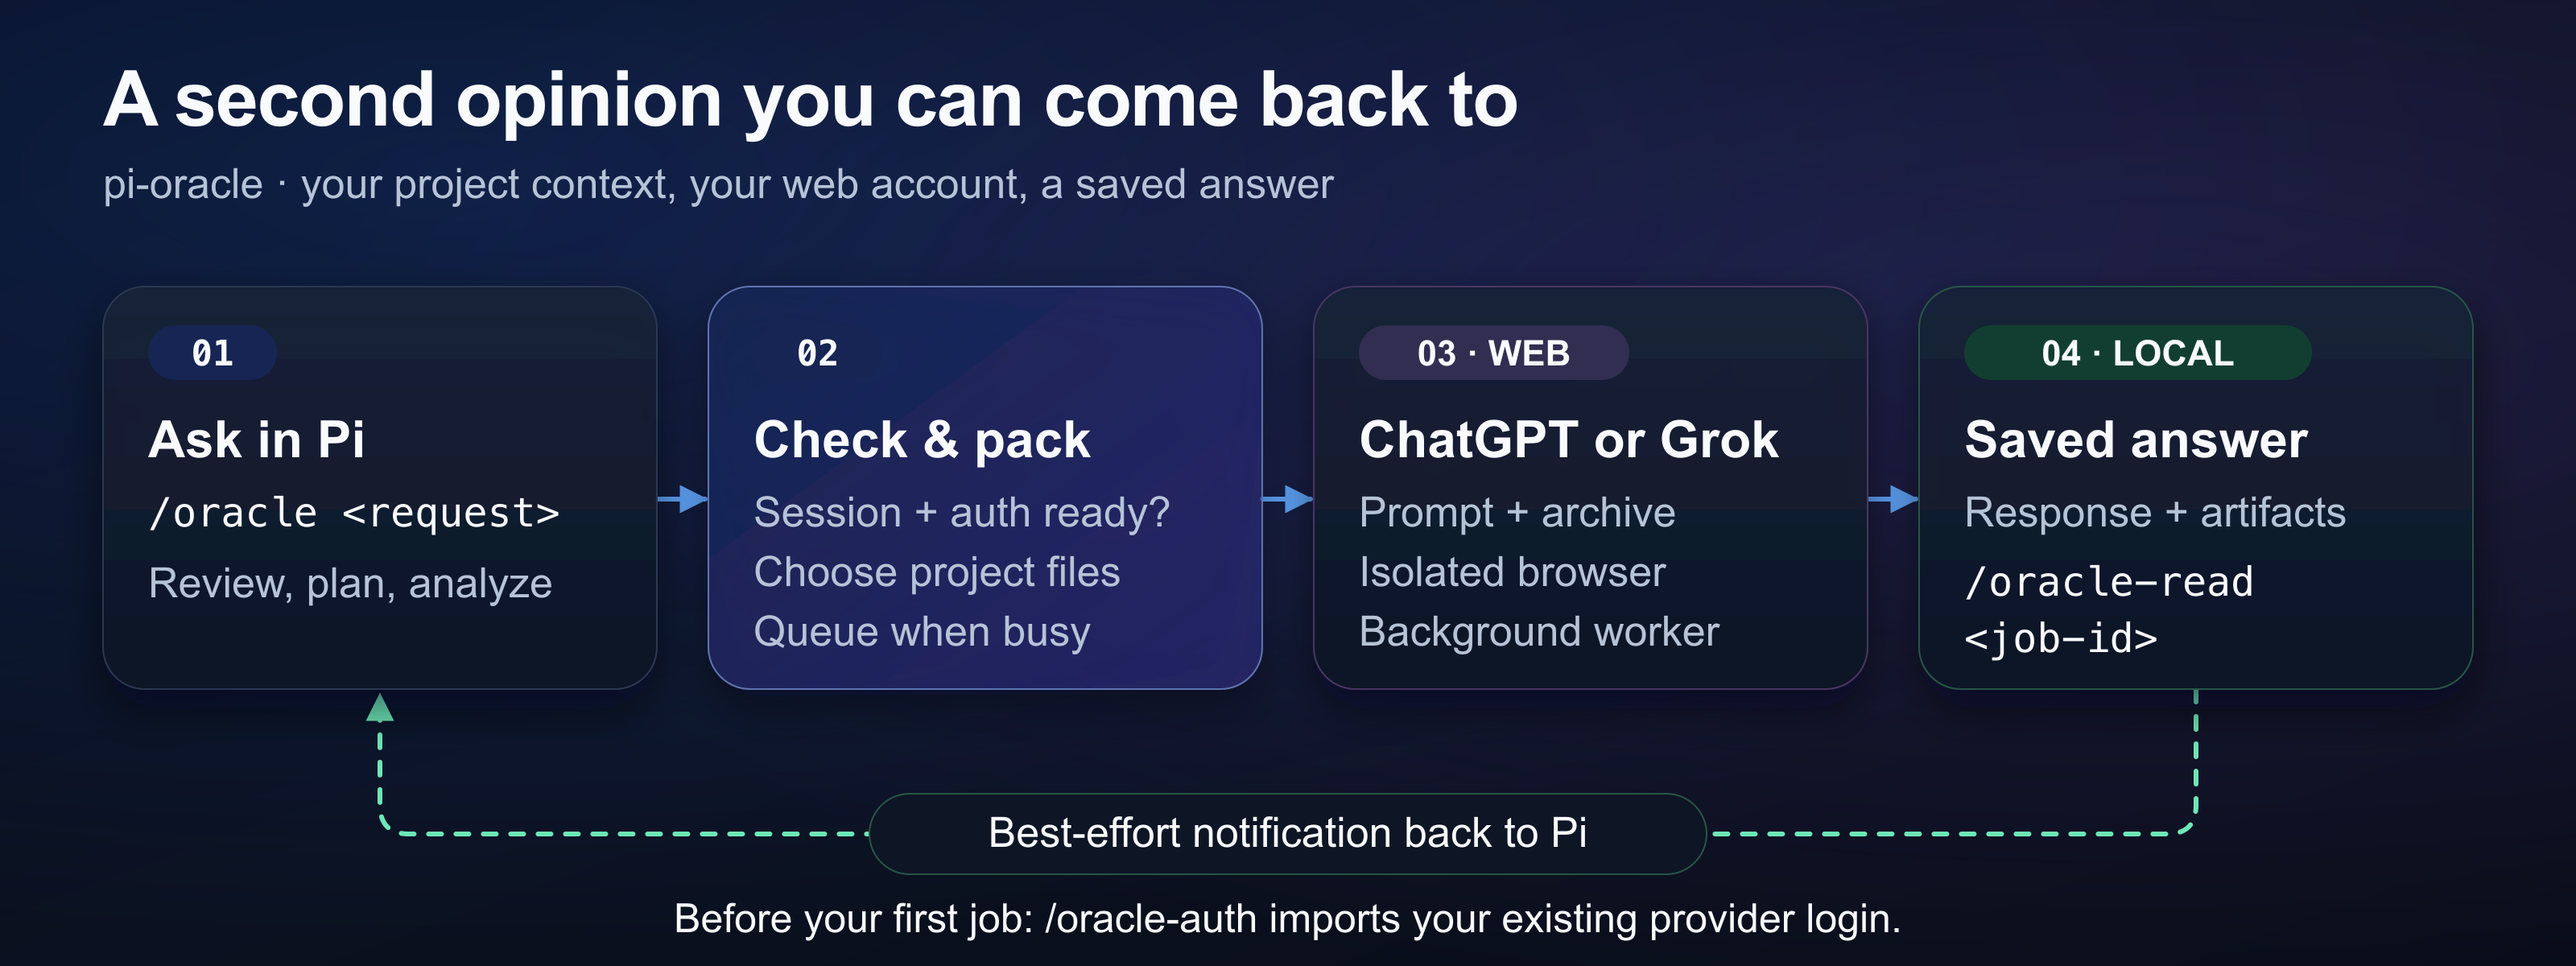
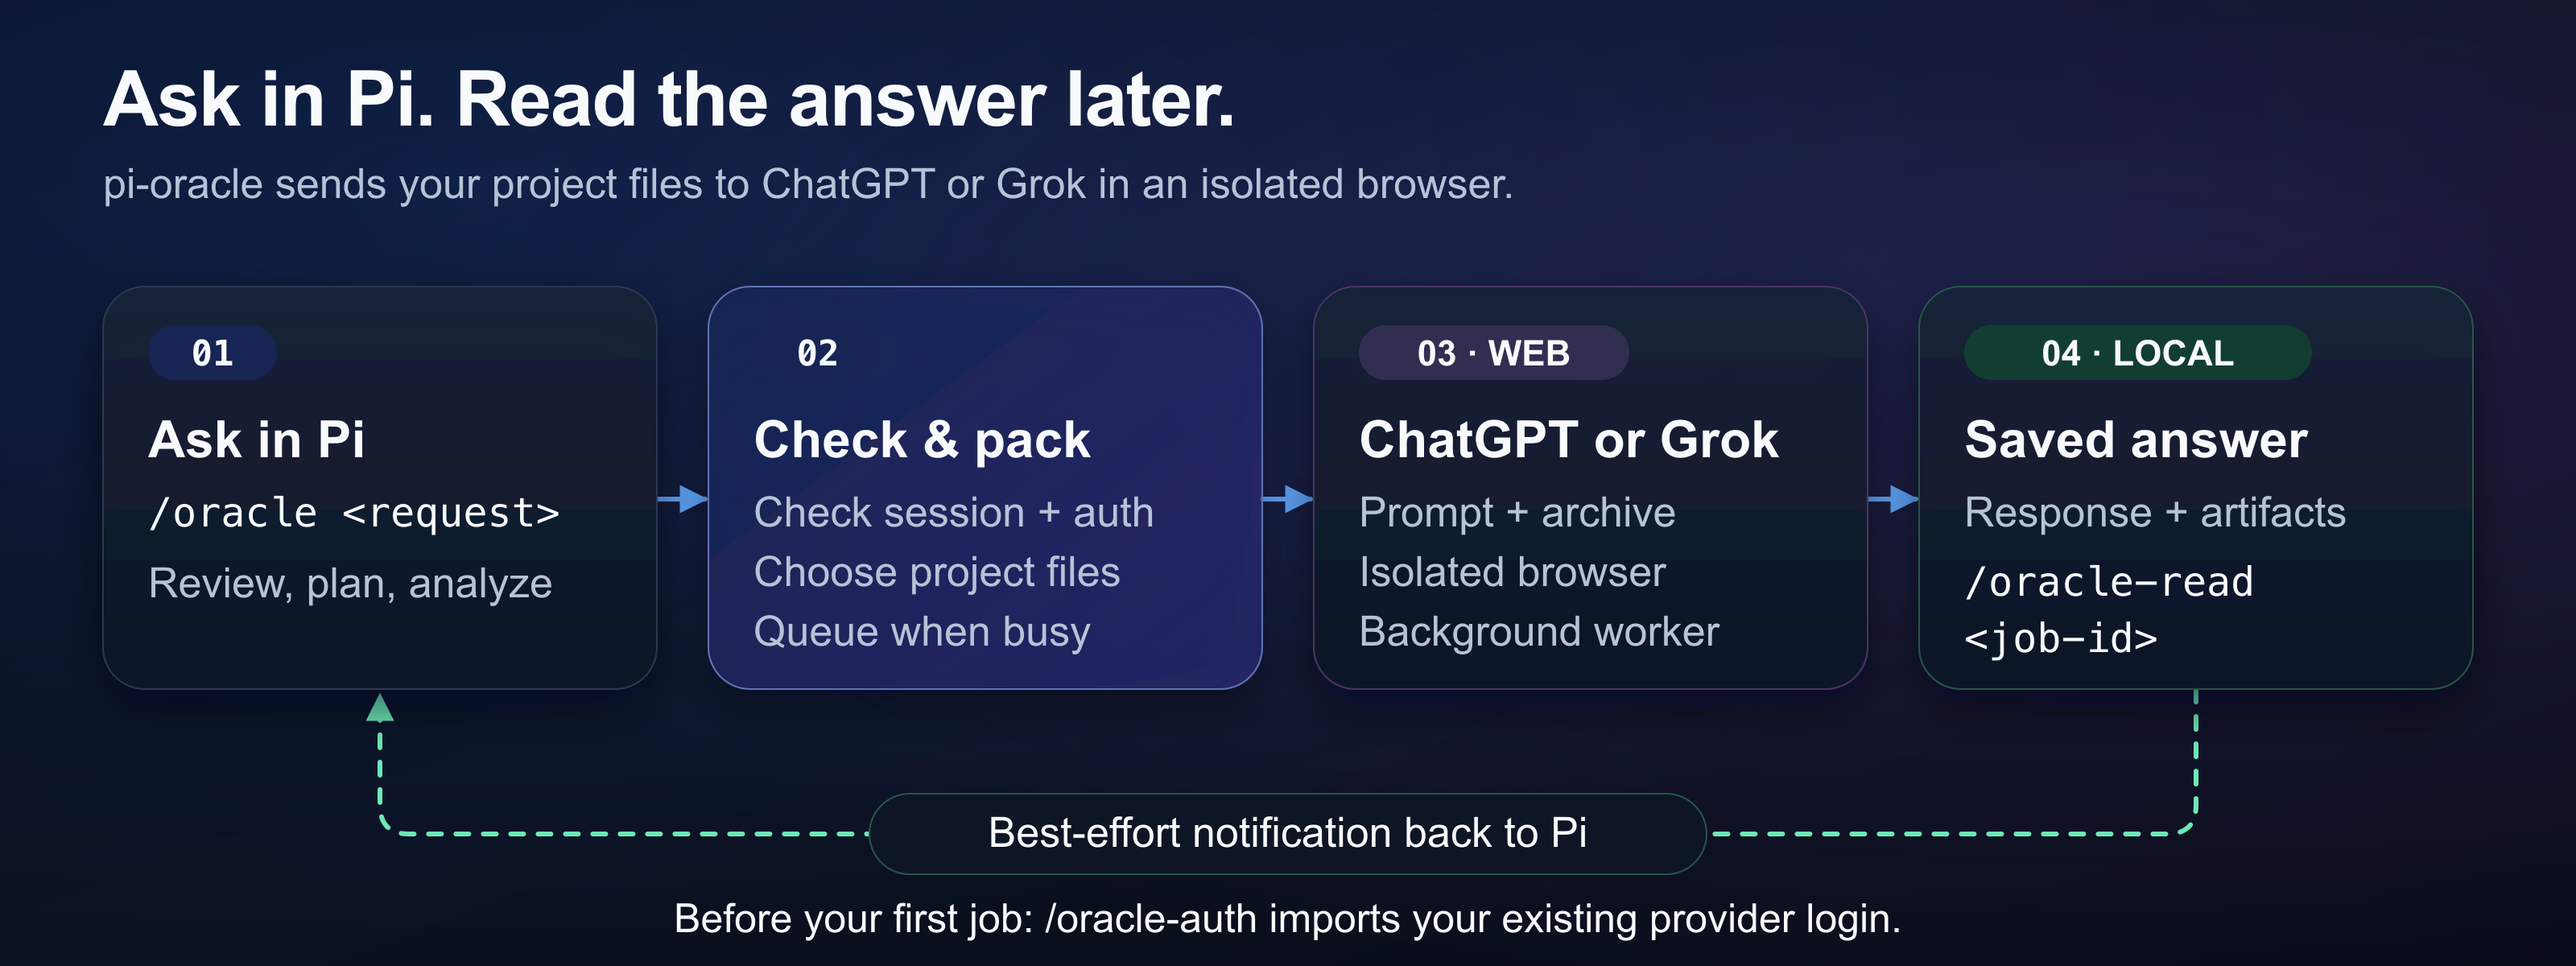
docs: simplify diagram labels

Changed region(s): [[0.0625, 0.0617, 0.5938, 0.2158], [0.2812, 0.5242, 0.4688, 0.555]]

diff --git a/README.md b/README.md
@@ -2,7 +2,7 @@
 
 pi-oracle sends project files and questions from [Pi](https://github.com/earendil-works/pi) to ChatGPT or Grok through your web account. Each job uses an isolated browser and saves its answer locally.
 
-![Oracle workflow: Pi checks the request and packages project files, an isolated browser sends them to ChatGPT or Grok, and Oracle saves the answer locally.](.github/readme/oracle-workflow.png)
+![Oracle workflow: Pi packages project files, an isolated browser sends them to ChatGPT or Grok, and Oracle saves the answer locally.](.github/readme/oracle-workflow.png)
 
 *Pi request → project archive → web model → saved answer, with a best-effort notification to Pi.*
 
